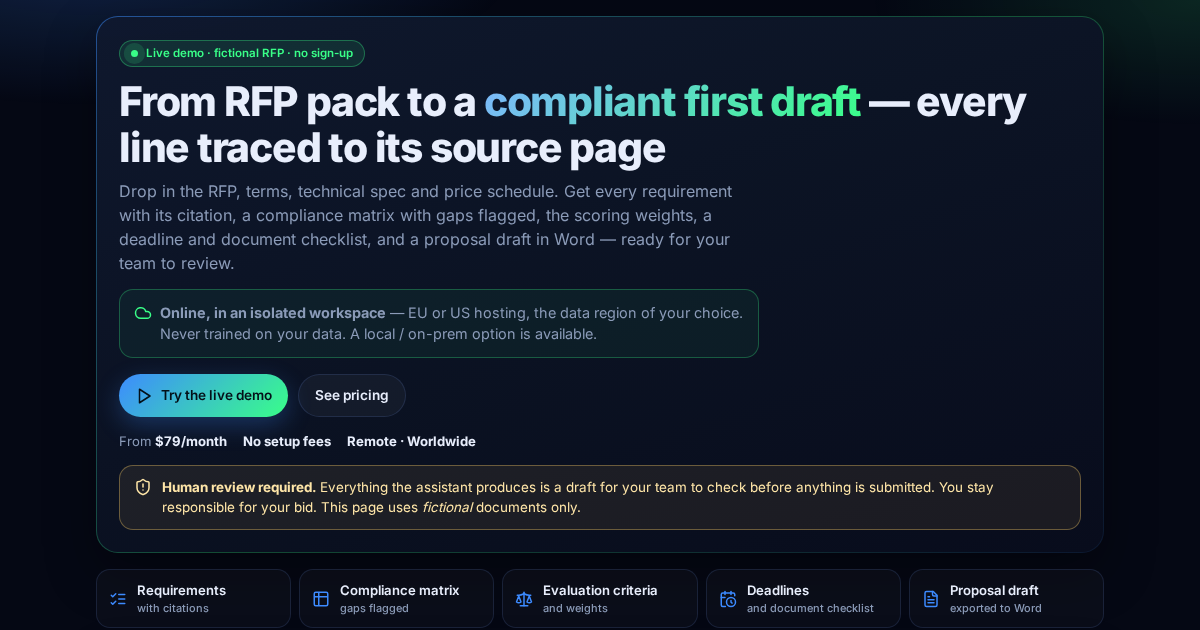
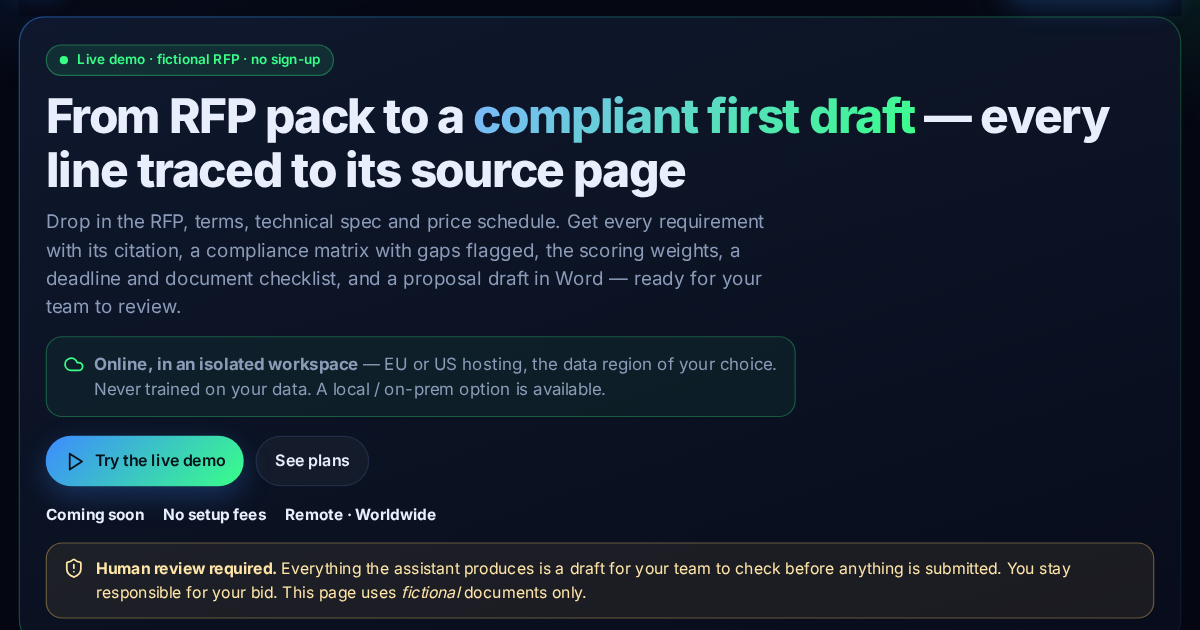
Plans label instead of Pricing; OG image regenerated without price

Changed region(s): [[0.0308, 0.0603, 0.9558, 1.0], [0.0308, 0.0, 0.9558, 0.0302], [0.6167, 0.5127, 0.6475, 0.5429]]

diff --git a/index.html b/index.html
@@ -35,7 +35,7 @@
       </a>
       <nav class="top-actions" aria-label="Page sections">
         <a class="btn btn-ghost hide-sm" href="#demo">Live demo</a>
-        <a class="btn btn-ghost hide-sm" href="#pricing">Pricing</a>
+        <a class="btn btn-ghost hide-sm" href="#pricing">Plans</a>
         <a class="btn btn-primary" href="https://laborx.com/freelancers/users/id475124" rel="noopener"><i data-lucide="briefcase"></i><span class="lbl">Ask on LaborX</span></a>
       </nav>
     </div>
@@ -48,7 +48,7 @@
         <p class="host-line"><i data-lucide="cloud"></i><span><strong>Online, in an isolated workspace</strong> — EU or US hosting, the data region of your choice. Never trained on your data. A local / on-prem option is available.</span></p>
         <div class="hero-cta">
           <a class="btn btn-primary" href="#demo"><i data-lucide="play"></i> Try the live demo</a>
-          <a class="btn btn-ghost" href="#pricing">See pricing</a>
+          <a class="btn btn-ghost" href="#pricing">See plans</a>
         </div>
         <div class="hero-meta">
           <span><strong>Coming soon</strong></span>
